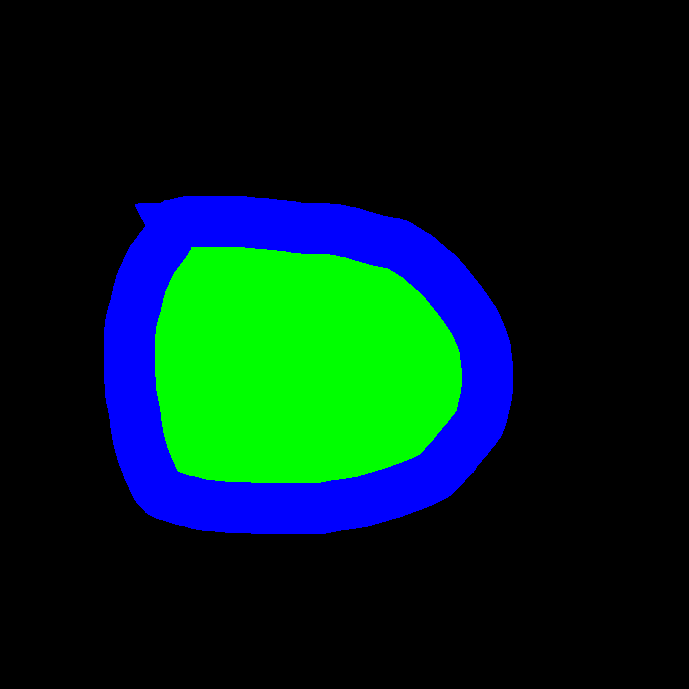
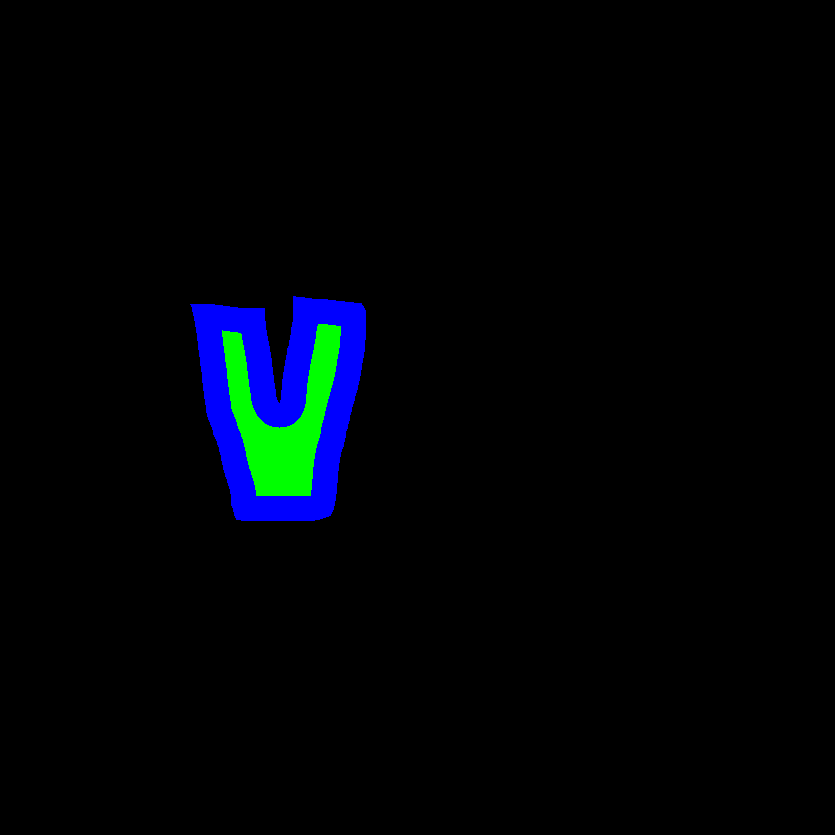
测试完成，还差replay

Changed region(s): [[0.1524, 0.2743, 0.762, 0.7925]]

diff --git a/client/src/components/paperCanvas.vue b/client/src/components/paperCanvas.vue
@@ -4,31 +4,34 @@ import paper from 'paper'
 import { useBackgroundStore } from '~/stores/background'
 import { useCollageSeriesStore } from '~/stores/collageSeries'
 import { useAnimationStore } from '~/stores/animation'
+const animationStore = useAnimationStore()
 const paperCanvasRef = ref<HTMLCanvasElement | null>(null)
 const backgroundStore = useBackgroundStore()
 const collageSeriesStore = useCollageSeriesStore()
+const size = ref(0)
 function updateBackground() {
     //先删除现有背景
-    const objects = paper.view.getObjects()
+    const objects = paper.project.activeLayer.children
     objects.forEach(obj => {
         if (obj.isBackground) {
             obj.remove()
         }
     })
-    const currentOverview = collageSeriesStore.overviews[useAnimationStore.now_overview_idx]
+    const currentOverview = collageSeriesStore.overviews[animationStore.now_overview_idx]
     const overviewId = currentOverview?.overviewId
+    console.log(overviewId)
     // 如果background存在，绘制到画布上
     if (backgroundStore.getCurrentOverviewBackground(overviewId)) {
         const backgroundImage = new paper.Raster(backgroundStore.getCurrentOverviewBackground(overviewId));
         backgroundImage.onLoad = () => {
             // 计算合适的缩放比例，使图片完全适应画布
-            const scaleX = size / backgroundImage.width;
-            const scaleY = size / backgroundImage.height;
+            const scaleX = size.value / backgroundImage.width;
+            const scaleY = size.value / backgroundImage.height;
             const scale = Math.min(scaleX, scaleY);
 
             // 设置图片位置和缩放
             backgroundImage.scaling = new paper.Point(scale, scale);
-            backgroundImage.position = new paper.Point(size / 2, size / 2);
+            backgroundImage.position = new paper.Point(size.value / 2, size.value / 2);
             backgroundImage.isBackground = true
             // 将背景图片添加到画布并置于最底层
             backgroundImage.sendToBack();
@@ -46,10 +49,10 @@ onMounted(() => {
         const width = Math.floor(canvasSize.width);
         const height = Math.floor(canvasSize.height);
         // 保证宽高比 1:1
-        const size = Math.min(width, height);
-        paperCanvasRef.value.width = size
-        paperCanvasRef.value.height = size
-        paper.view.viewSize = new paper.Size(size, size);
+        size.value = Math.min(width, height);
+        paperCanvasRef.value.width = size.value
+        paperCanvasRef.value.height = size.value
+        paper.view.viewSize = new paper.Size(size.value, size.value); 
         updateBackground()
     });
 });

diff --git a/client/src/components/BackgroundUploader.vue b/client/src/components/BackgroundUploader.vue
@@ -10,7 +10,7 @@ const { getCurrentOverviewBackground, setCurrentOverviewBackground } = backgroun
 
 const collageSeriesStore = useCollageSeriesStore()
 const { overviews, currentOverviewIndex } = storeToRefs(collageSeriesStore)
-const { addBackgroundToAllSlides, removeBackgroundFromAllSlides } = collageSeriesStore
+const { addBackgroundToAllSlides, removeBackgroundFromAllSlides, updateCurrentSlide } = collageSeriesStore
 
 // 计算当前总览的背景
 const currentBackground = computed(() => {
@@ -103,7 +103,8 @@ const setBackgroundImage = async (imageDataUrl: string, fileName: string) => {
     
     // 将背景图片移动到最底层
     canvasInstance.sendObjectToBack(fabricImg, true)
-    
+    //保证当前幻灯片的缩略图更新
+    updateCurrentSlide()
     // 重新渲染画布
     canvasInstance.renderAll()
     creatingBackground.value = false

diff --git a/client/src/stores/animation.ts b/client/src/stores/animation.ts
@@ -190,7 +190,7 @@ export const useAnimationStore = defineStore('animation', {
         this.now_collage_idx = now_collage
 
       }
-      else if (this.result_data.length === 1) {//一开始
+      else if (this.elements.length === 0) {//一开始
         this.setData(now_collage, 0)
         console.log('2')
         for (let i = 0; i < this.posArray.length; i++) {
@@ -227,7 +227,7 @@ export const useAnimationStore = defineStore('animation', {
           this.elements.push(raster);
         } 
       }
-      else if (this.result_data.length > 1) {
+      else if (this.elements.length > 0) {
         console.log('3')
         this.setData(now_collage, this.now_start_idx)
         for (let i = this.now_start_idx; i < this.elements.length; i++) {//这里先set好数据
@@ -434,6 +434,7 @@ export const useAnimationStore = defineStore('animation', {
     nextOverview() {
       this.now_collage_idx = 0
       this.now_start_idx = 0
+      this.collage_result_type = []
       this.removeAnimation()
       this.removeElements()
       this.now_overview_idx += 1

diff --git a/client/src/composables/server.ts b/client/src/composables/server.ts
@@ -378,7 +378,9 @@ export async function sendDataToServer(): Promise<boolean> {
         }
         
         clearInterval(progressTimer.value)
-        animationStore.nextOverview()
+        if (now_overview_idx.value < totalOverview.value - 1) {
+          animationStore.nextOverview()
+        } 
       } catch (error) {
         console.error(`处理 overview ${time} 时出错:`, error)
         clearInterval(progressTimer.value)

diff --git a/server/server.py b/server/server.py
@@ -8,11 +8,11 @@ import base64
 import re
 import cairosvg
 from PIL import Image
-# from unitopia import Unitopia 
+from unitopia import Unitopia 
 from utils import *
 app = Flask(__name__, template_folder='',static_folder="")
 CORS(app)  # 启用跨域支持
-# unitopia = Unitopia() 
+unitopia = Unitopia() 
 progress_data = {}
 
 @app.route('/processDataApi', methods=['POST'])
@@ -155,7 +155,7 @@ def process_data():
         json.dump(json_data, f, indent=4)
  
     
-    # unitopia.start_collage(f'./workdir/{str(id)}_{i}/collage.json',id = str(id),callback=collage_callback)
+    unitopia.start_collage(f'./workdir/{str(id)}_{i}/collage.json',id = str(id),callback=collage_callback)
     # 返回处理结果
     return jsonify({
         "success": True,